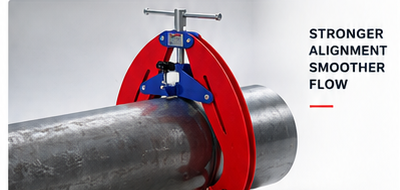
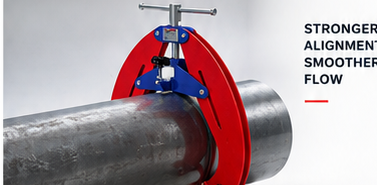
Embed interactive product view switcher directly into Product Overview and remove extra section

diff --git a/index.html b/index.html
@@ -235,103 +235,21 @@
             <p style="margin-top: 1.2rem;">
               Suitable for use in open field, construction site, factory or workshop, these clamps reduce installation time, minimize errors and prevent damage to pipes and fittings.
             </p>
+
+            <!-- Compact Product Views Switcher -->
+            <div class="overview-views-group" style="margin-top: 2rem; display: flex; flex-wrap: wrap; gap: 0.6rem; align-items: center;">
+              <span style="font-size: 0.82rem; font-weight: 700; color: var(--navy-dark); text-transform: uppercase; letter-spacing: 0.05em; margin-right: 0.3rem;">Product Views:</span>
+              <button class="overview-view-btn active" data-img="assets/prod-overview-exact-2.png" data-title="Pipe Installation View">Pipe Fit-Up</button>
+              <button class="overview-view-btn" data-img="fit-up-clamp-2.webp" data-title="Fit Up Clamp Family">Clamp Family</button>
+              <button class="overview-view-btn" data-img="fit-up-clamp-3.webp" data-title="Mechanical Anatomy & Clamping Screw">Anatomy</button>
+              <button class="overview-view-btn" data-img="fit-up-clamp-4.webp" data-title="Complete Size Range Array (1&quot; - 16&quot;)">Size Stack</button>
+              <button class="overview-view-btn" data-img="fit-up-clamp-5.webp" data-title="Front Profile &amp; 120&deg; Clamping">Front View</button>
+            </div>
           </div>
 
           <div class="overview-visual">
-            <div class="overview-img-container">
-              <img src="assets/prod-overview-clean-pipe.png" alt="Fit Up Clamp mounted on steel pipe">
-            </div>
-
-            <div class="side-statement-box">
-              <span class="side-statement-title">STRONGER ALIGNMENT<br>SMOOTHER FLOW</span>
-            </div>
-          </div>
-        </div>
-      </div>
-    </section>
-
-    <!-- INTERACTIVE PRODUCT GALLERY SECTION (FEATURING ALL 7 PRODUCT IMAGES) -->
-    <section id="gallery" class="section-spacing" style="background-color: var(--bg-light); border-top: 1px solid var(--border-light); border-bottom: 1px solid var(--border-light);">
-      <div class="container">
-        <span class="red-accent-bar"></span>
-        <h2 class="heading-lg" style="margin-bottom: 0.5rem;">PRODUCT GALLERY & ANATOMY</h2>
-        <p class="text-muted" style="margin-bottom: 2rem;">Explore full high-resolution engineering photography of the Plan Teknik Fit Up Clamp series.</p>
-
-        <!-- Gallery Tabs Navigation -->
-        <div class="gallery-tabs-nav">
-          <button class="gallery-tab-btn active" data-tab="tab-family">Clamp Family (fit-up-clamp-2)</button>
-          <button class="gallery-tab-btn" data-tab="tab-specs">Features & Anatomy (fit-up-clamp-3)</button>
-          <button class="gallery-tab-btn" data-tab="tab-sizes">Size Range Stack (fit-up-clamp-4)</button>
-          <button class="gallery-tab-btn" data-tab="tab-front">Front Profile (fit-up-clamp-5)</button>
-          <button class="gallery-tab-btn" data-tab="tab-renders">3D Fitting Renders (fit-up-clamp-6)</button>
-          <button class="gallery-tab-btn" data-tab="tab-packaging">Packaging & Shipping (fit-up-clamp-1)</button>
-        </div>
-
-        <!-- Gallery Content Views -->
-        <div class="gallery-content-wrapper">
-          <!-- Tab 1: Family -->
-          <div id="tab-family" class="gallery-tab-pane active">
-            <div class="gallery-img-card" onclick="openHighResLightbox('fit-up-clamp-2.webp', 'Plan Teknik Fit Up Clamp Family')">
-              <img src="fit-up-clamp-2.webp" alt="Plan Teknik Fit Up Clamp Family Standing">
-              <div class="gallery-img-caption">
-                <h4>Plan Teknik Fit Up Clamp Family</h4>
-                <p>Heavy duty double-walled steel plate construction for pipe diameters 1" through 16". Click to view full resolution.</p>
-              </div>
-            </div>
-          </div>
-
-          <!-- Tab 2: Specs & Anatomy -->
-          <div id="tab-specs" class="gallery-tab-pane">
-            <div class="gallery-img-card" onclick="openHighResLightbox('fit-up-clamp-3.webp', 'Mechanical Anatomy & Clamping Screw Detail')">
-              <img src="fit-up-clamp-3.webp" alt="Mechanical Anatomy & Clamping Screw Detail">
-              <div class="gallery-img-caption">
-                <h4>Mechanical Anatomy & Clamping Detail</h4>
-                <p>Main body trapezoidal clamping screw, ergonomic star Bakelite handle, and butterfly safety nut. Click to expand.</p>
-              </div>
-            </div>
-          </div>
-
-          <!-- Tab 3: Sizes Stack -->
-          <div id="tab-sizes" class="gallery-tab-pane">
-            <div class="gallery-img-card" onclick="openHighResLightbox('fit-up-clamp-4.webp', 'Fit Up Clamp Size Range Array (1 inch - 16 inch)')">
-              <img src="fit-up-clamp-4.webp" alt="Fit Up Clamp Size Range Array">
-              <div class="gallery-img-caption">
-                <h4>Complete Size Range Array (1" &ndash; 16")</h4>
-                <p>Overview of PBKK 1-2, PBKK 2-6, PBKK 8-12, PBKK 12-14, and PBKK 14-16 models.</p>
-              </div>
-            </div>
-          </div>
-
-          <!-- Tab 4: Front Profile -->
-          <div id="tab-front" class="gallery-tab-pane">
-            <div class="gallery-img-card" onclick="openHighResLightbox('fit-up-clamp-5.webp', 'Front Profile and Clamping Mechanism')">
-              <img src="fit-up-clamp-5.webp" alt="Front Profile and Clamping Mechanism">
-              <div class="gallery-img-caption">
-                <h4>Front Profile & 120&deg; 3-Point Alignment</h4>
-                <p>Demonstrating symmetric 120-degree pressure distribution across pipe circumferences.</p>
-              </div>
-            </div>
-          </div>
-
-          <!-- Tab 5: Renders Grid -->
-          <div id="tab-renders" class="gallery-tab-pane">
-            <div class="gallery-img-card" onclick="openHighResLightbox('fit-up-clamp-6.webp', '3D Fitting Renders (Straight, Elbow, Flange, Tee, Reduction, Cap)')">
-              <img src="fit-up-clamp-6.webp" alt="3D Fitting Renders Grid">
-              <div class="gallery-img-caption">
-                <h4>3D Engineering Fitting Renders Grid</h4>
-                <p>Detailed CAD models of Fit Up Clamp mounted on straight pipes, 90&deg; elbows, flanges, and caps.</p>
-              </div>
-            </div>
-          </div>
-
-          <!-- Tab 6: Packaging -->
-          <div id="tab-packaging" class="gallery-tab-pane">
-            <div class="gallery-img-card" onclick="openHighResLightbox('fit-up-clamp-1.webp', 'Export Packaging (Wooden Crates, Wrapped Clamps, Cardboard Boxes)')">
-              <img src="fit-up-clamp-1.webp" alt="Export Packaging Overview">
-              <div class="gallery-img-caption">
-                <h4>Export Packaging Standards</h4>
-                <p>Heavy duty wooden crates, moisture-sealed protective wrapping, and labelled cardboard boxes.</p>
-              </div>
+            <div class="overview-img-container" onclick="openOverviewLightbox()" style="cursor: pointer;">
+              <img id="overview-display-img" src="assets/prod-overview-exact-2.png" alt="Fit Up Clamp mounted on steel pipe">
             </div>
           </div>
         </div>

diff --git a/app.js b/app.js
@@ -10,26 +10,40 @@ document.addEventListener('DOMContentLoaded', () => {
   initUnitToggle();
   initSearch();
   initQuoteForm();
-  initGalleryTabs();
+  initOverviewSwitcher();
 });
 
-/* Gallery Tabs Switching */
-function initGalleryTabs() {
-  const tabBtns = document.querySelectorAll('.gallery-tab-btn');
-  const tabPanes = document.querySelectorAll('.gallery-tab-pane');
+/* Overview Product View Switcher */
+function initOverviewSwitcher() {
+  const viewBtns = document.querySelectorAll('.overview-view-btn');
+  const displayImg = document.getElementById('overview-display-img');
+  if (!viewBtns.length || !displayImg) return;
 
-  tabBtns.forEach(btn => {
+  viewBtns.forEach(btn => {
     btn.addEventListener('click', () => {
-      tabBtns.forEach(b => b.classList.remove('active'));
-      tabPanes.forEach(p => p.classList.remove('active'));
-
+      viewBtns.forEach(b => b.classList.remove('active'));
       btn.classList.add('active');
-      const targetId = btn.getAttribute('data-tab');
-      const pane = document.getElementById(targetId);
-      if (pane) pane.classList.add('active');
+
+      const imgSrc = btn.getAttribute('data-img');
+      if (imgSrc) {
+        displayImg.style.opacity = '0.5';
+        setTimeout(() => {
+          displayImg.src = imgSrc;
+          displayImg.style.opacity = '1';
+        }, 150);
+      }
     });
   });
 }
+
+function openOverviewLightbox() {
+  const displayImg = document.getElementById('overview-display-img');
+  if (!displayImg) return;
+  const activeBtn = document.querySelector('.overview-view-btn.active');
+  const title = activeBtn ? activeBtn.getAttribute('data-title') : 'Plan Teknik Fit Up Clamp';
+  openHighResLightbox(displayImg.src, title);
+}
+
 
 function openHighResLightbox(imgSrc, title = 'Plan Teknik Fit Up Clamp', desc = 'Plan Teknik Fit Up Clamp high-resolution product photography.') {
   const backdrop = document.getElementById('modal-backdrop');

diff --git a/index.css b/index.css
@@ -633,6 +633,29 @@ button {
   margin-top: 1rem;
 }
 
+.overview-view-btn {
+  padding: 0.4rem 0.85rem;
+  font-size: 0.82rem;
+  font-weight: 600;
+  color: var(--navy-dark);
+  background-color: var(--bg-light);
+  border: 1px solid var(--border-light);
+  border-radius: 4px;
+  transition: all var(--transition-fast);
+  cursor: pointer;
+}
+
+.overview-view-btn:hover {
+  border-color: var(--red-primary);
+  color: var(--red-primary);
+}
+
+.overview-view-btn.active {
+  background-color: var(--red-primary);
+  color: var(--text-white);
+  border-color: var(--red-primary);
+}
+
 .overview-visual {
   flex: 1;
   min-width: 0;
